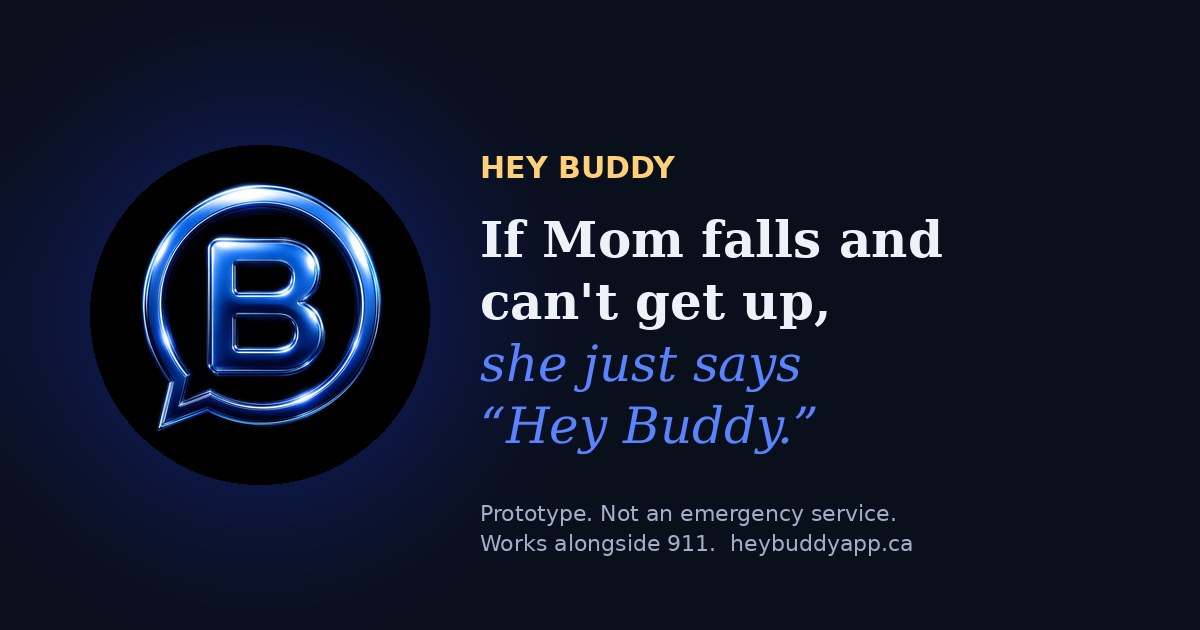
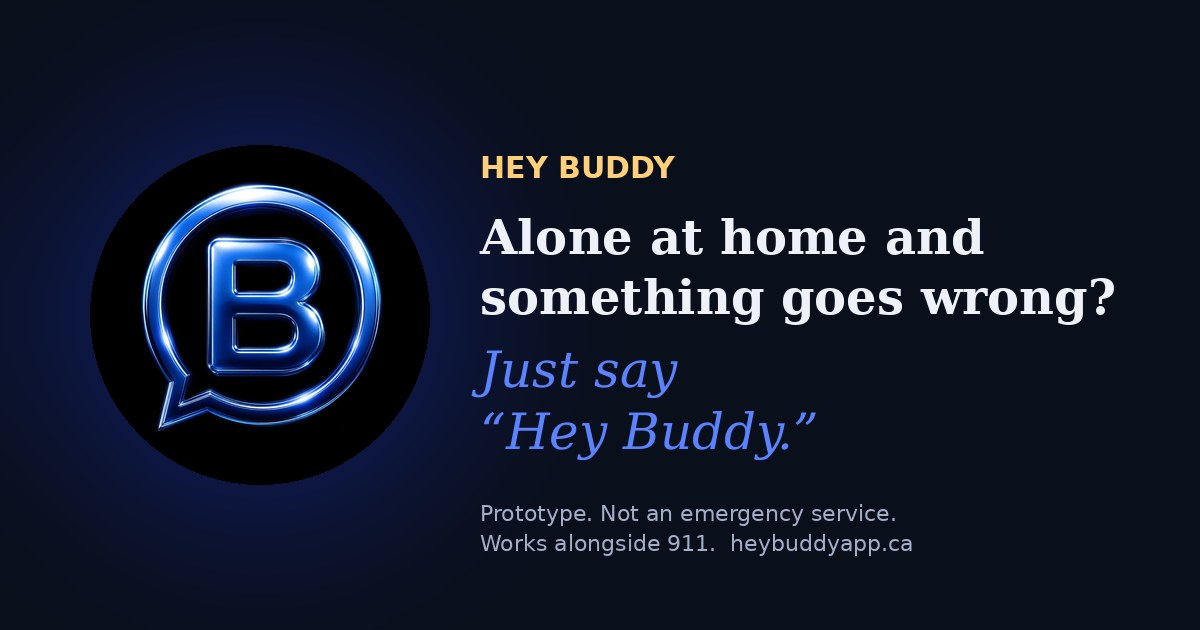
site: hero for everyone alone at home, not only moms
Founder: 'way too narrow. People will instantly think it is only for moms.'
Hero: 'Alone at home and something goes wrong? Just say Hey Buddy.' Lede:
'A fall, chest pain, a scare in the night...' in 'you' voice. Meta
description, og/twitter titles and share image updated to match. Founder
quote left as written (his words).

Claude-Session: https://claude.ai/code/session_01LTR8LLC7T27K7ExX9DZgzJ

Changed region(s): [[0.4008, 0.3317, 0.925, 0.7238]]

diff --git a/index.html b/index.html
@@ -4,7 +4,7 @@
 <meta charset="UTF-8">
 <meta name="viewport" content="width=device-width, initial-scale=1.0, viewport-fit=cover">
 <title>Hey Buddy | Voice help for older adults and anyone alone at home</title>
-<meta name="description" content="If Mom falls and can't get up, she doesn't need to find a button. She just says 'Hey Buddy.' Prototype. Not an emergency service. Works alongside 911.">
+<meta name="description" content="Alone at home and something goes wrong? No button to find. Just say 'Hey Buddy.' For older adults and anyone alone at home. Prototype. Not an emergency service. Works alongside 911.">
 <meta name="robots" content="index, follow">
 <meta name="google-site-verification" content="53rHMHVlUnFWCI8h74290r0Sv-WeKJZX8b33IgjfYZs" />
 <meta name="theme-color" content="#0a0f1c">
@@ -16,14 +16,14 @@
 <meta property="og:site_name" content="Hey Buddy">
 <meta property="og:locale" content="en_CA">
 <meta property="og:url" content="https://heybuddyapp.ca">
-<meta property="og:title" content="If Mom falls, she just says 'Hey Buddy.'">
+<meta property="og:title" content="Alone at home and something goes wrong? Just say 'Hey Buddy.'">
 <meta property="og:description" content="Voice help for the people you love who live alone. Prototype. Not an emergency service. Works alongside 911.">
 <meta property="og:image" content="https://heybuddyapp.ca/og-image.jpg">
 <meta property="og:image:width" content="1200">
 <meta property="og:image:height" content="630">
-<meta property="og:image:alt" content="Hey Buddy orb. If Mom falls and can't get up, she just says Hey Buddy.">
+<meta property="og:image:alt" content="Hey Buddy orb. Alone at home and something goes wrong? Just say Hey Buddy.">
 <meta name="twitter:card" content="summary_large_image">
-<meta name="twitter:title" content="If Mom falls, she just says 'Hey Buddy.'">
+<meta name="twitter:title" content="Alone at home and something goes wrong? Just say 'Hey Buddy.'">
 <meta name="twitter:description" content="Voice help for the people you love who live alone. Prototype. Not an emergency service. Works alongside 911.">
 <meta name="twitter:image" content="https://heybuddyapp.ca/og-image.jpg">
 <script type="application/ld+json">
@@ -156,8 +156,8 @@ footer{padding-block:40px 56px;font-size:.85rem;color:var(--muted)}
         <span>just say "Hey Buddy"</span>
       </a>
       <p class="eyebrow">For older adults, and anyone alone at home</p>
-      <h1>If Mom falls and can't get up, <em>she just says &ldquo;Hey Buddy.&rdquo;</em></h1>
-      <p class="lede">No button to find. She talks to her phone. Buddy stays with her, shows where she is, and helps her call 911 or you.</p>
+      <h1>Alone at home and something goes wrong? <em>Just say &ldquo;Hey Buddy.&rdquo;</em></h1>
+      <p class="lede">A fall, chest pain, a scare in the night. No button to find. Talk to your phone, and Buddy stays with you, shows where you are, and helps you call 911 or someone you trust.</p>
       <div class="cta-row">
         <a class="btn btn-main" href="#early-testers">Become an early tester</a>
         <a class="btn btn-ghost" href="#waitlist">Join the waitlist</a>
